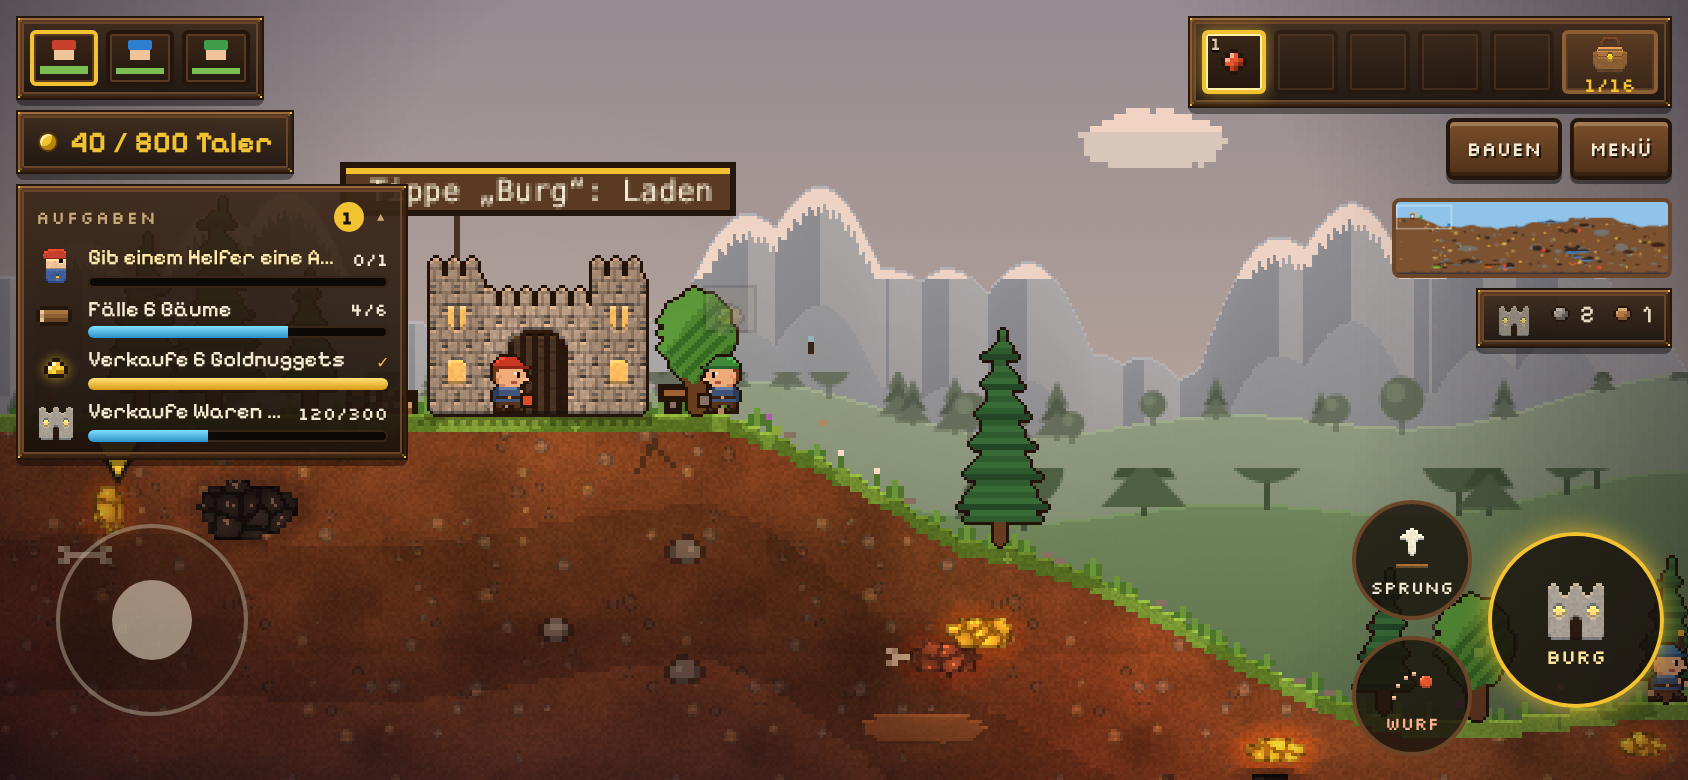
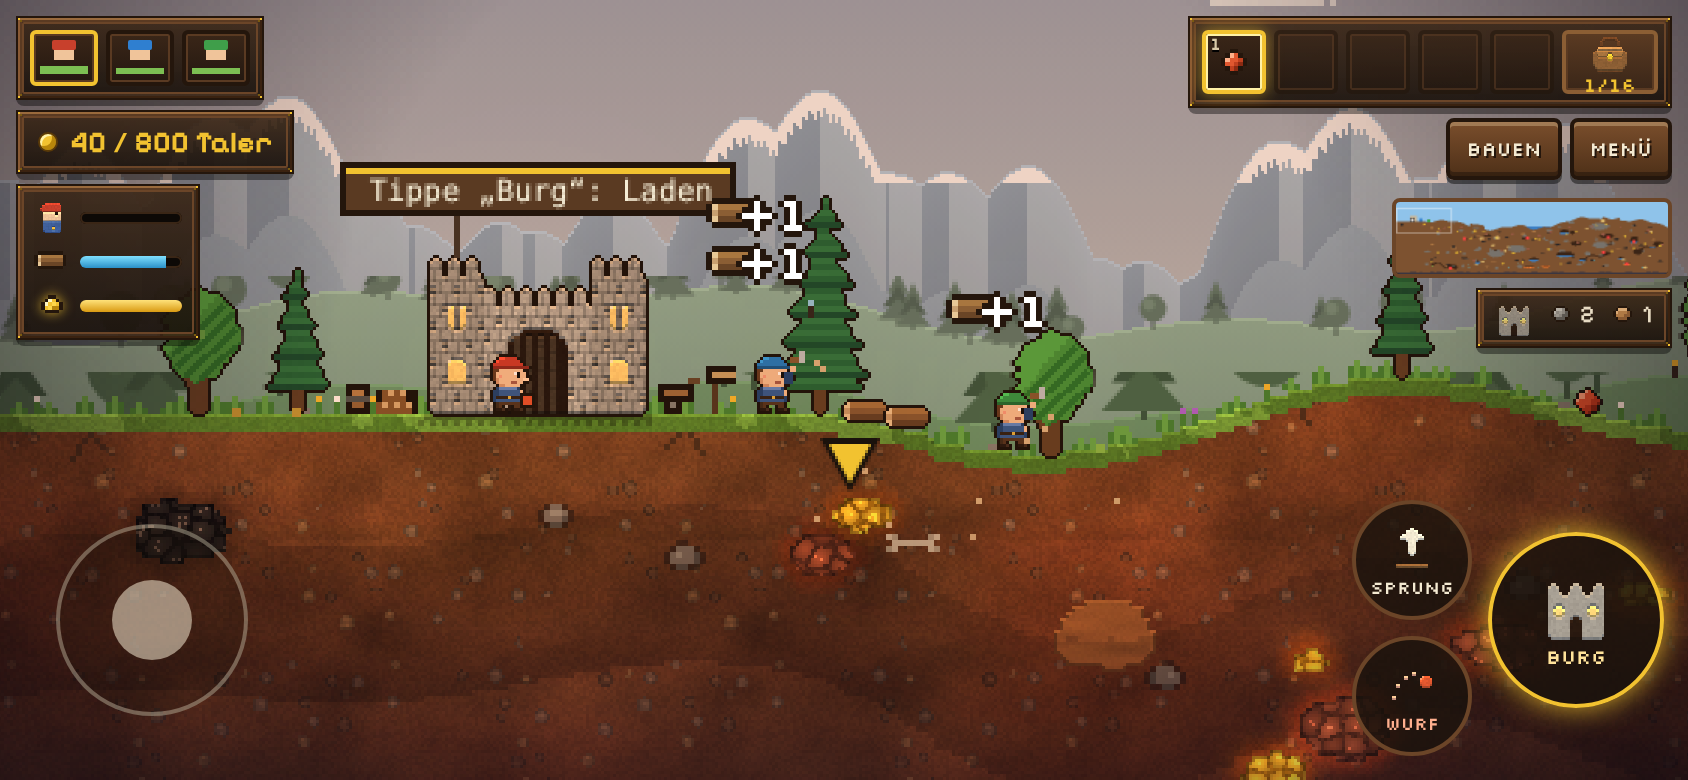
Aufgaben-Kasten schmal: nur Symbol und Balken, höchstens drei Zeilen (v1.77.1)
Claude-Session: https://claude.ai/code/session_01NuBFqX43WbLSmLhdQnV7E7

diff --git a/src/questui.js b/src/questui.js
@@ -2,7 +2,7 @@
 // three daily quests, each with icon, bar and count) and the task board (pinned notes) that
 // opens from the game menu (tab "Aufgaben") and from the level chip in the lobby.
 import { missionNow } from './missions.js';
-import { P, QUESTS, claimQuest, rollQuests, saveProfile } from './profile.js';
+import { P, QUESTS, claimQuest, rollQuests } from './profile.js';
 import { sfx } from './sound.js';
 import { itemIcon, padIcon } from './sprites.js';
 import { G } from './state.js';
@@ -43,6 +43,7 @@ const hoursLeft = () => Math.max(1, Math.ceil((86400000 - (Date.now() % 86400000
 const el = document.getElementById('qTrack');
 let key = '';
 const last = {};
+// at most three rows: the round's task, then the daily quests not yet claimed
 function rows() {
   const out = [];
   const m = missionNow();
@@ -50,41 +51,30 @@ function rows() {
     out.push({ id: 'm', ico: misIcon(m.id), text: m.text, have: m.v, goal: m.goal, tip: `+${m.pay} ${tr('Taler')}` });
   for (const q of P.quests) {
     const Q = QUESTS[q.id];
-    if (!Q) continue;
-    out.push({ id: q.id, ico: QUEST_ICON[q.id](), text: tr(Q.text, { n: q.goal }), have: q.have, goal: q.goal, done: q.done, tip: `+${Q.xp} XP` });
+    if (!Q || q.done) continue;
+    out.push({ id: q.id, ico: QUEST_ICON[q.id](), text: tr(Q.text, { n: q.goal }), have: q.have, goal: q.goal, tip: `+${Q.xp} XP` });
   }
-  return out;
+  return out.slice(0, 3);
 }
 function updTracker() {
-  const show = G.state === 'play' && !G.tut;
-  if (el.hidden === show) el.hidden = !show;
-  if (!show) return;
-  const r = rows();
-  const k = (P.qtSmall ? 's' : '') + r.map(q => q.id + q.have + '/' + q.goal + (q.done ? 'd' : '') + q.text).join('|');
+  const r = G.state === 'play' && !G.tut ? rows() : [];
+  if (el.hidden === !!r.length) el.hidden = !r.length;
+  if (!r.length) return;
+  const k = r.map(q => q.id + q.have + '/' + q.goal + q.text).join('|');
   if (k === key) return;
   key = k;
-  const ready = P.quests.filter(q => !q.done && q.have >= q.goal).length;
-  el.classList.toggle('small', !!P.qtSmall);
-  el.innerHTML =
-    `<button class="qt-head" aria-expanded="${!P.qtSmall}"><span>${tr('Aufgaben')}</span>` +
-    (ready ? `<b class="qt-ready">${ready}</b>` : '') +
-    `<i>${P.qtSmall ? '▾' : '▴'}</i></button>` +
-    (P.qtSmall
-      ? ''
-      : `<div class="qt-rows">` +
-        r
-          .map(q => {
-            const full = q.have >= q.goal;
-            const up = last[q.id] != null && q.have > last[q.id];
-            return `<div class="qt-row${full ? ' full' : ''}${q.done ? ' done' : ''}${up ? ' up' : ''}${q.id === 'm' ? ' qt-mis' : ''}" title="${esc(q.text + ' · ' + q.tip)}">
-              <img src="${q.ico}" alt="">
-              <span class="qt-t">${esc(q.text)}</span>
-              <span class="qt-n">${full ? '✓' : `${q.have}/${q.goal}`}</span>
-              <span class="qt-bar"><i style="width:${Math.min(100, (q.have / q.goal) * 100)}%"></i></span>
-            </div>`;
-          })
-          .join('') +
-        `</div>`);
+  // only icon and bar; the text is in the tooltip and on the board
+  el.setAttribute('aria-label', tr('Aufgaben') + ': ' + r.map(q => `${q.text} ${Math.min(q.have, q.goal)}/${q.goal}`).join(', '));
+  el.innerHTML = r
+    .map(q => {
+      const full = q.have >= q.goal;
+      const up = last[q.id] != null && q.have > last[q.id];
+      return `<div class="qt-row${full ? ' full' : ''}${up ? ' up' : ''}" title="${esc(`${q.text} ${Math.min(q.have, q.goal)}/${q.goal} · ${q.tip}`)}">
+        <img src="${q.ico}" alt="">
+        <span class="qt-bar"><i style="width:${Math.min(100, (q.have / q.goal) * 100)}%"></i></span>
+      </div>`;
+    })
+    .join('');
   for (const q of r) last[q.id] = q.have;
 }
 let openTasks = () => {};
@@ -92,17 +82,9 @@ let openTasks = () => {};
 function onTrackerOpen(fn) {
   openTasks = fn;
 }
+el.setAttribute('role', 'button');
 el.addEventListener('pointerdown', e => e.stopPropagation());
-el.addEventListener('click', e => {
-  if (e.target.closest('.qt-head')) {
-    P.qtSmall = !P.qtSmall;
-    saveProfile();
-    sfx('click');
-    updTracker();
-    return;
-  }
-  openTasks();
-});
+el.addEventListener('click', () => openTasks());
 
 // ---- the board ----
 // parent: where it goes; reopen: draws the panel again after a reward was claimed

diff --git a/src/questui.css b/src/questui.css
@@ -2,85 +2,22 @@
 .qtrack {
   display: grid;
   gap: 4px;
-  width: 196px;
-  padding: 4px 7px 6px;
-  color: var(--ink);
+  width: 92px;
+  padding: 5px 6px;
   cursor: pointer;
-}
-.qtrack.small {
-  width: auto;
-  padding-bottom: 4px;
-}
-.qt-head {
-  display: flex;
-  align-items: center;
-  gap: 6px;
-  min-height: 22px;
-  margin: -2px -4px 0;
-  padding: 0 4px;
-  font-family: var(--font-ui);
-  font-size: 9px;
-  letter-spacing: 1px;
-  text-transform: uppercase;
-  color: #c9a97a;
-  background: none;
-  border: 0;
-  box-shadow: none;
-  cursor: pointer;
-}
-.qt-head span {
-  flex: 1;
-  text-align: left;
-}
-.qt-head i {
-  font-style: normal;
-}
-.qt-ready {
-  display: inline-grid;
-  place-items: center;
-  min-width: 15px;
-  height: 15px;
-  padding: 0 3px;
-  border-radius: 8px;
-  font-size: 9px;
-  color: var(--soil);
-  background: var(--gold);
-}
-.qt-rows {
-  display: grid;
-  gap: 5px;
 }
 .qt-row {
   display: grid;
-  grid-template-columns: 20px 1fr auto;
-  gap: 2px 6px;
+  grid-template-columns: 18px 1fr;
+  gap: 5px;
   align-items: center;
   border-radius: 3px;
 }
 .qt-row img {
-  grid-row: 1 / 3;
-  width: 20px;
-  height: 20px;
+  width: 18px;
+  height: 18px;
   image-rendering: pixelated;
   object-fit: contain;
-}
-.qt-t {
-  overflow: hidden;
-  font-family: var(--font-display);
-  font-size: 11px;
-  line-height: 1.15;
-  white-space: nowrap;
-  text-overflow: ellipsis;
-}
-.qt-row.qt-mis .qt-t {
-  color: #ffe9a8;
-}
-.qt-n {
-  font-family: var(--font-ui);
-  font-size: 9px;
-}
-.qt-bar {
-  grid-column: 2 / 4;
 }
 .qt-bar,
 .qbar {
@@ -101,14 +38,8 @@
 .qt-row.full .qt-bar i {
   background: linear-gradient(#ffe27a, #d99a12);
 }
-.qt-row.full .qt-n {
-  color: var(--gold);
-}
 .qt-row.full img {
-  filter: drop-shadow(0 0 3px rgba(242, 194, 48, 0.7));
-}
-.qt-row.done {
-  opacity: 0.45;
+  filter: drop-shadow(0 0 3px rgba(242, 194, 48, 0.8));
 }
 /* a step forward: the row flashes once */
 .qt-row.up {
@@ -126,28 +57,6 @@
   .qt-row.up {
     animation: none;
   }
-}
-@media (max-height: 360px) {
-  .qt-t {
-    display: none;
-  }
-  .qt-row {
-    grid-template-columns: 20px 1fr auto;
-  }
-  .qt-row .qt-bar {
-    grid-row: 1 / 3;
-    grid-column: 2;
-  }
-  .qt-row .qt-n {
-    grid-row: 1 / 3;
-    grid-column: 3;
-  }
-  .qtrack {
-    width: 150px;
-  }
-}
-.bigtext .qt-t {
-  font-size: 13px;
 }
 
 /* the board: notes pinned to planks */

diff --git a/tests/ui.spec.js b/tests/ui.spec.js
@@ -336,14 +336,15 @@ test('the tasks stay in view: a tracker under the money, the board in the menu a
   await page.waitForTimeout(500);
   await page.click('#pClose');
   await play(page);
-  // in the round: the round's task and the three quests in the tracker, none at the top
-  await expect(page.locator('#qTrack .qt-row')).toHaveCount(4);
-  await expect(page.locator('#qTrack .qt-row').first()).toContainText('Gib einem Helfer eine Aufgabe');
+  // in the round: at most three rows (the round's task first), icon and bar only, none at the top
+  await expect(page.locator('#qTrack .qt-row')).toHaveCount(3);
+  await expect(page.locator('#qTrack .qt-row').first()).toHaveAttribute('title', /Gib einem Helfer eine Aufgabe/);
+  await expect(page.locator('#qTrack .qt-row[title*="Goldnuggets"]')).toHaveClass(/full/);
   await expect(page.locator('#misTxt')).toBeHidden();
-  await expect(page.locator('#qTrack .qt-ready')).toHaveText('1');
+  expect((await page.locator('#qTrack').boundingBox()).width).toBeLessThan(110);
   // a tap opens the menu at the tab "Aufgaben", where the reward is claimed
   await page.waitForTimeout(500);
-  await page.click('#qTrack .qt-rows');
+  await page.click('#qTrack');
   await expect(page.locator('#pTitle')).toHaveText('Menü');
   await expect(page.locator('.pchips button.sel')).toHaveText('Aufgaben');
   await expect(page.locator('#pBody .qnote.qmis')).toContainText('Auftrag der Runde');
@@ -354,9 +355,8 @@ test('the tasks stay in view: a tracker under the money, the board in the menu a
   await page.waitForTimeout(500);
   await page.click('#pClose');
   await expect(page.locator('#panel')).toBeHidden();
-  await expect(page.locator('#qTrack .qt-ready')).toHaveCount(0);
-  // the tracker folds away to its title
-  await page.click('#qTrack .qt-head');
-  await expect(page.locator('#qTrack .qt-row')).toHaveCount(0);
+  // the claimed quest leaves the tracker, the next one moves up
+  await expect(page.locator('#qTrack .qt-row[title*="Goldnuggets"]')).toHaveCount(0);
+  await expect(page.locator('#qTrack .qt-row').nth(2)).toHaveAttribute('title', /300 Taler/);
   expect(errors).toEqual([]);
 });

diff --git a/README.md b/README.md
@@ -12,7 +12,7 @@ Ein Aufbau- und Grabespiel mit Pixel-Physik im Stil der Klassiker: Führe deine 
 
 **Heimatbergwerk:** Kristalle sind die Währung, die zwischen den Runden bleibt. Deine Heim-Crew schürft sie auch, wenn das Spiel zu ist (bis der Tresor voll ist, anfangs nach 4 Stunden), jede Runde bringt welche dazu (1 je 40 verdiente Taler, 10 für einen Sieg, Medaillen im Tagesschacht). Kassiert wird in der Lobby unter „Heimatbergwerk“. Ausgeben kannst du sie für mehr Heim-Crew und einen größeren Tresor, für kleine Boni im freien Spiel allein (Startkasse, schärfere Hacken, Holzvorrat; nie im Mehrspieler, im Tagesschacht, in der Kampagne oder im Tutorial) und für Skins: Outfits für deinen Wühler und Baustile für deine Gebäude. Die sehen auch deine Mitspieler. Kristalle gibt es nur durchs Spielen, nicht für Geld.
 
-**Aufgaben im Blick:** Links unter den Talern steht während der Runde ein kleiner Kasten mit dem Auftrag der Runde und den drei Tagesaufgaben, je mit Symbol, Balken und Stand; fertige werden gold, ein Fortschritt blinkt kurz auf. Mit ▴ klappt er auf die Überschrift zusammen. Ein Tipp darauf öffnet Menü → Aufgaben: eine Tafel mit angepinnten Zetteln, auf der man die Belohnung (XP) gleich abholt, abgeholte tragen den Stempel „Erledigt“. Dieselbe Tafel öffnet in der Lobby der Level-Knopf oben rechts.
+**Aufgaben im Blick:** Links unter den Talern steht während der Runde ein schmaler Kasten mit höchstens drei Zeilen, je ein Symbol und ein Balken: zuerst der Auftrag der Runde, dann die noch nicht abgeholten Tagesaufgaben. Fertige werden gold, ein Fortschritt blinkt kurz auf. Ein Tipp darauf öffnet Menü → Aufgaben: eine Tafel mit angepinnten Zetteln (mit Text und Stand), auf der man die Belohnung (XP) gleich abholt; abgeholte tragen den Stempel „Erledigt“. Dieselbe Tafel öffnet in der Lobby der Level-Knopf oben rechts.
 
 **Produktion im Blick:** Im Burg-Menü zeigt „Produktion“, welches Gebäude läuft und welches auf was wartet. Fehlt Holz, Erz oder Kohle, schickt „Helfer schicken“ einen freien Helfer los. Wartet ein Gebäude länger als 30 Sekunden, blinkt seine Blase.
 

diff --git a/docs/aufgaben/ENTWUERFE.md b/docs/aufgaben/ENTWUERFE.md
@@ -31,6 +31,6 @@ auch während des Spiels einsehbar.
 
 ## Entscheidung
 
-Umgesetzt (v1.77.0): **B1** im Spiel (Kasten unter den Talern, mit dem Auftrag der Runde; die
+Umgesetzt (v1.77.0, ab v1.77.1 schmal: nur Symbol und Balken, höchstens drei Zeilen): **B1** im Spiel (Kasten unter den Talern, mit dem Auftrag der Runde; die
 Leiste oben mit dem Auftrag entfällt) und **C2** als Tafel, im Menü unter dem Reiter „Aufgaben“ und
 in der Lobby. Belohnungen werden direkt auf der Tafel abgeholt. Code: `src/questui.js`.
